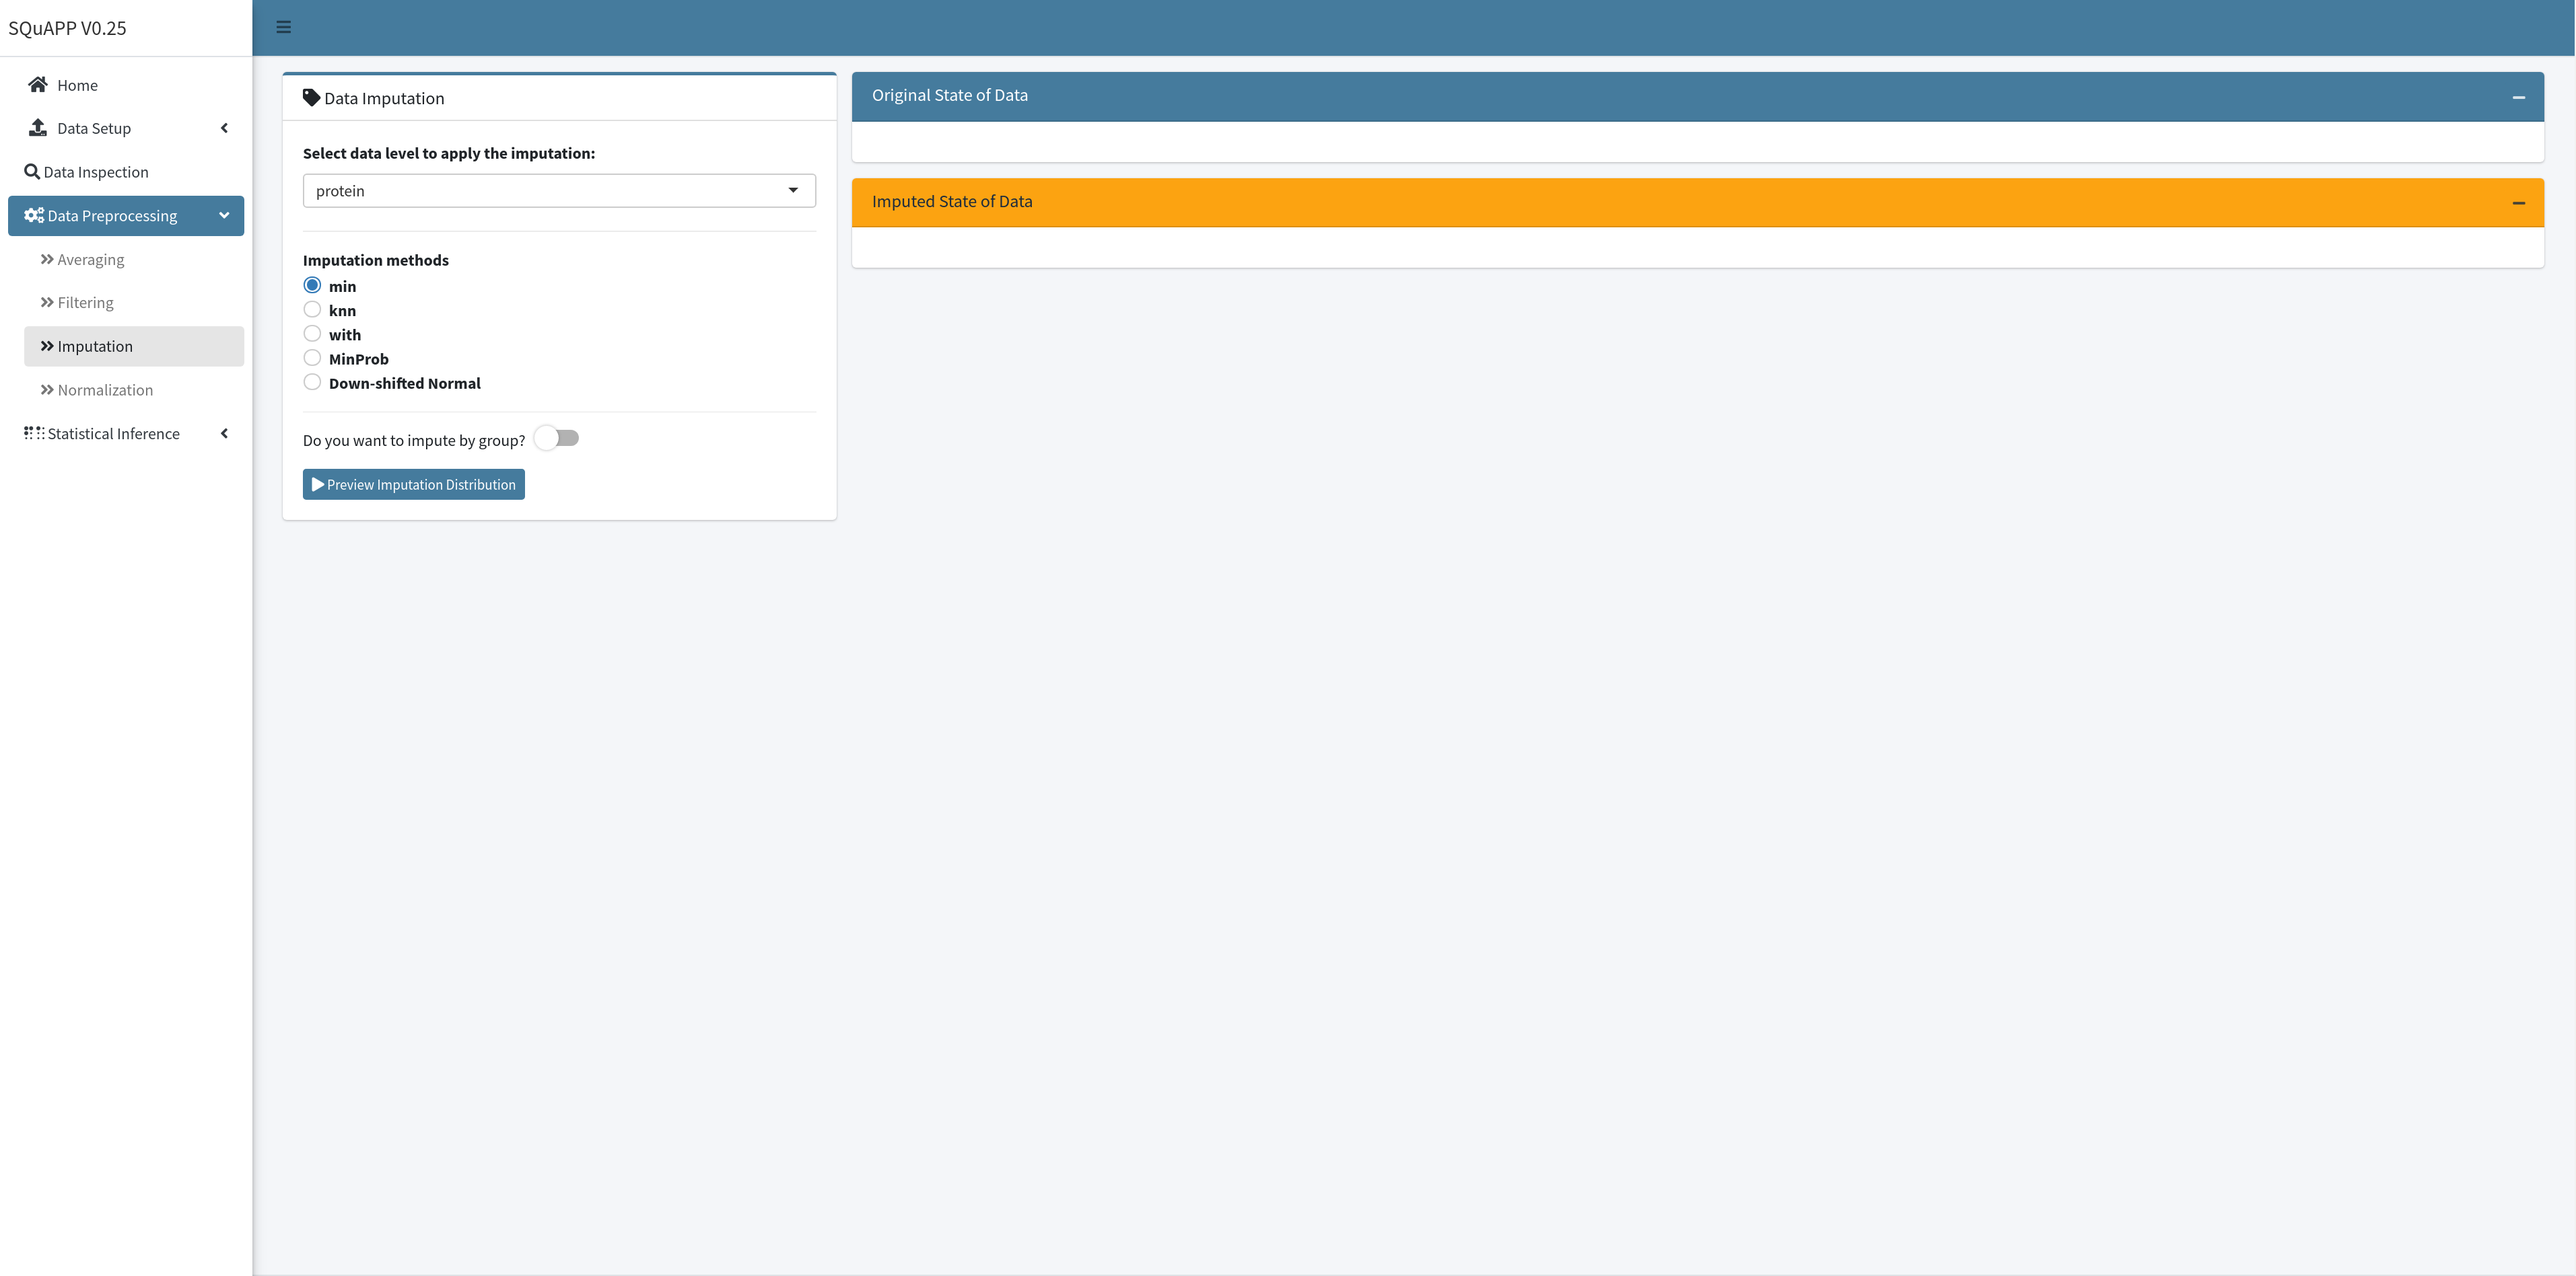
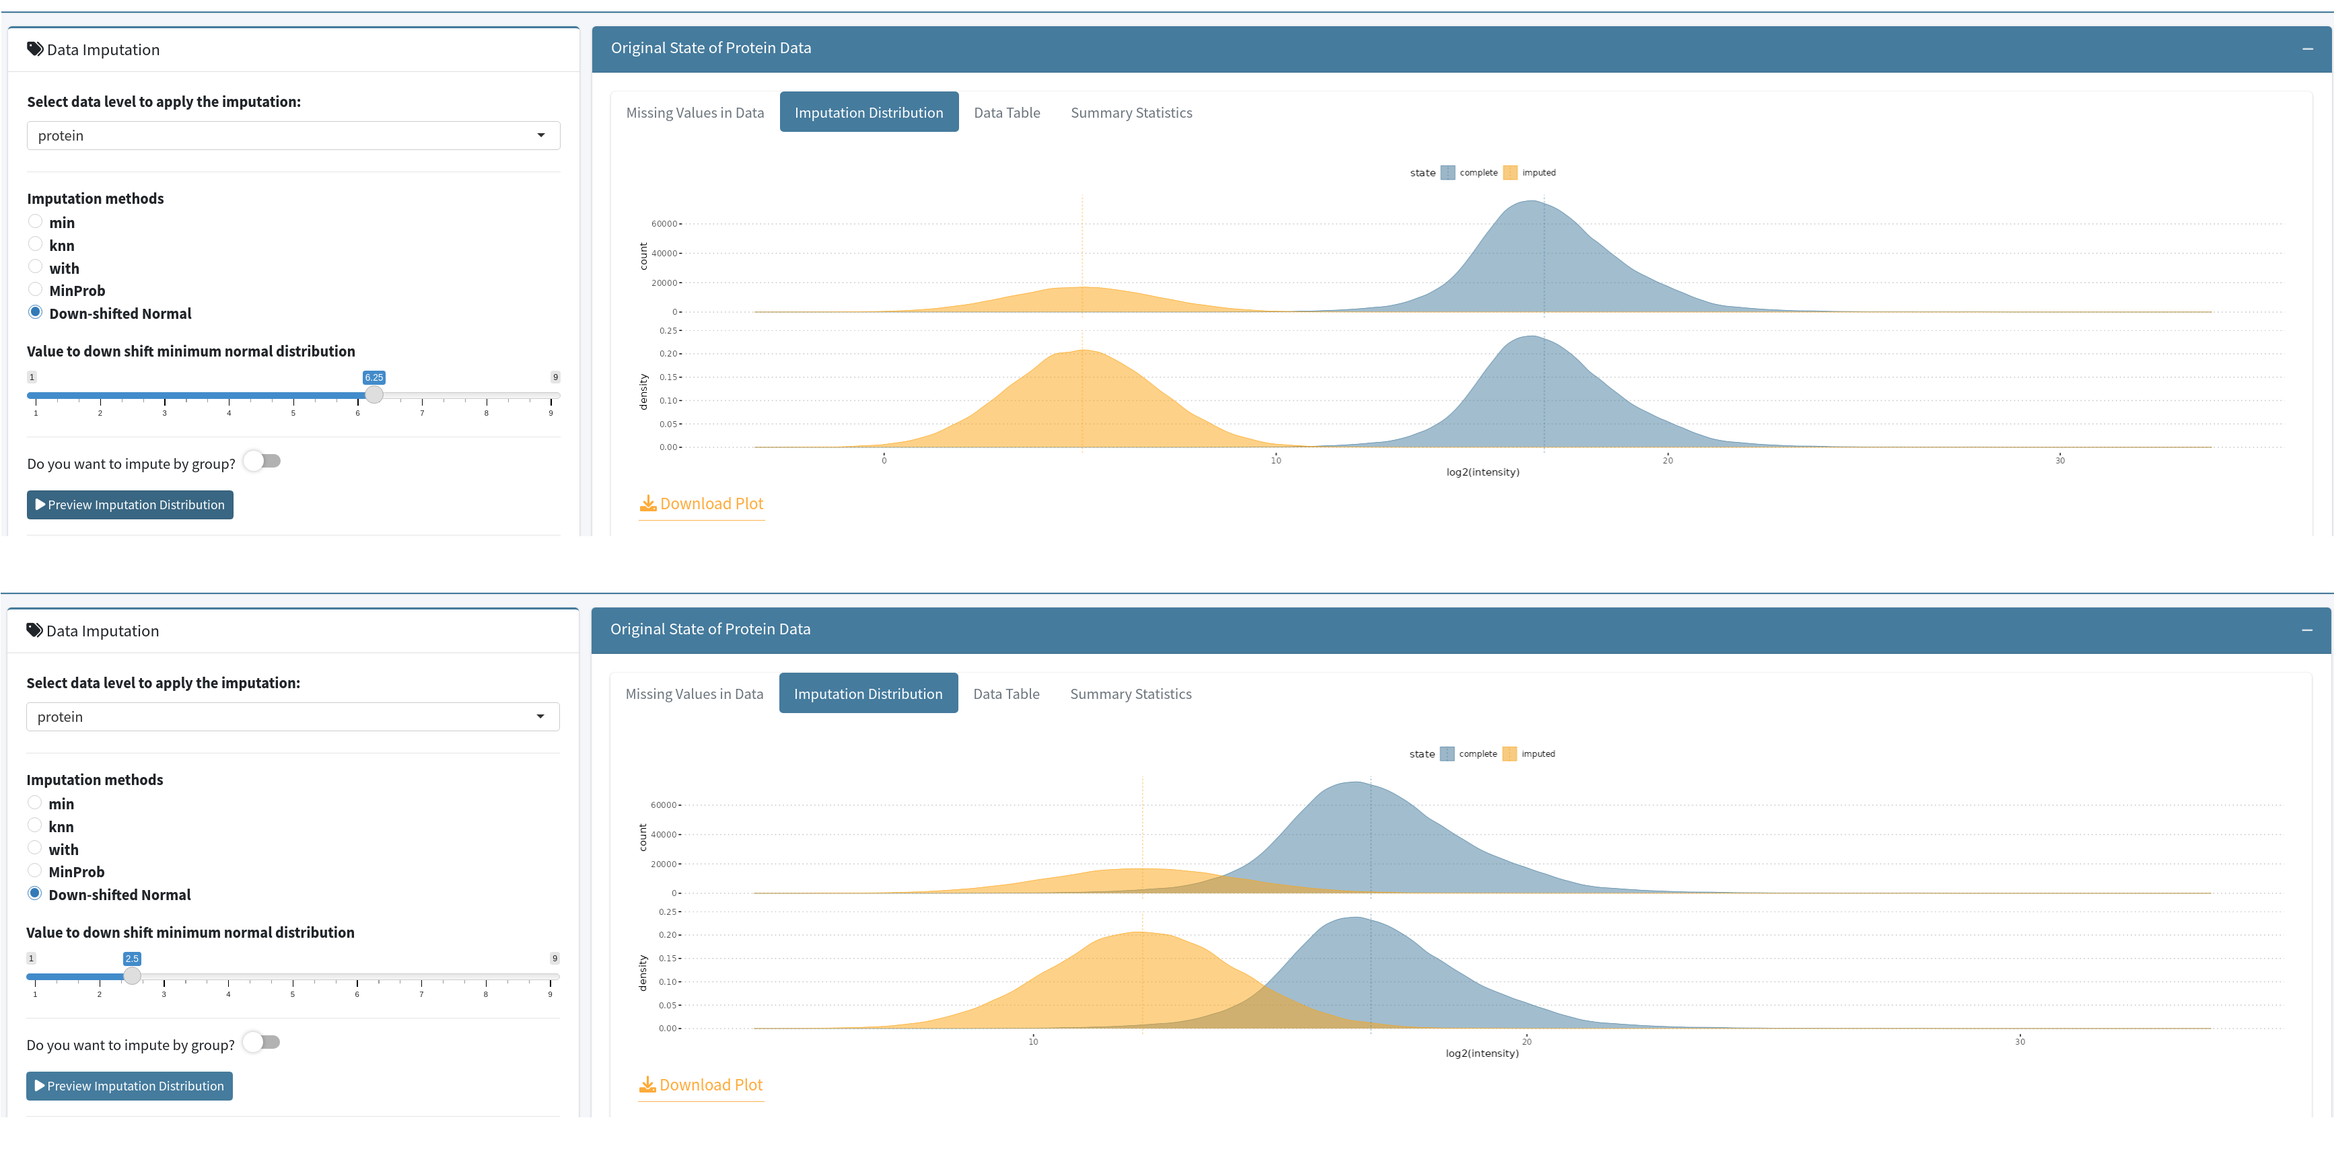
update data-imputation images

diff --git a/app/mds/dataProcess.md b/app/mds/dataProcess.md
@@ -59,16 +59,11 @@ Missing values are a common issue in proteomics data. With filtering data, imput
 - `knn`: Calculates the nearest neighbour averaging to replace the missing value as implemented in the [`impute::impute.knn`](https://rdrr.io/pkg/impute/man/impute.knn.html) function.
 - `with`: Applies user-selected value with to all missing values
 - `MinProb`: Randomly draws values from Gaussian distribution centred to a minimum value in the data. Implements the [`imputeLCMD::impute.MinProb`](https://rdrr.io/cran/imputeLCMD/man/impute.MinProb.html) function.
-
-<p align="center">
-  <img src="../../png/023_DataImputationInitial.png" width="80%">
-</p>
-
 - `Down-shifted Normal`: Custom function imputes missing values with a random value selected from a narrower normal distribution with a smaller mean shifted by a user-selected magnitude.
   - This custom imputation that uses the logic of [down-shifted normal imputation](http://coxdocs.org/doku.php?id=perseus:user:activities:matrixprocessing:imputation:replacemissingfromgaussian&s[]=imputation) used in Perseus<sup><b>[2](#Bibliography)</b></sup>.
 
 <p align="center">
-  <img src="../../png/023.1_DataImputationInitial.png" width="80%"> # New Image Showing Downshifted Normal Use
+  <img src="../../png/023_DataImputationInitial.png" width="80%"> # New Image Showing Downshifted Normal Use
 </p>
 
 After selecting a data level, the imputation method, and group factor (if you switch on the “impute by group” option), you can click on “Preview Imputation Distribution” to access preview visualizations and data tables provided by `SQuAPP`:
